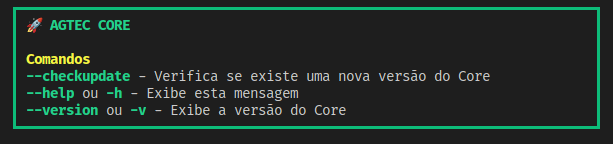
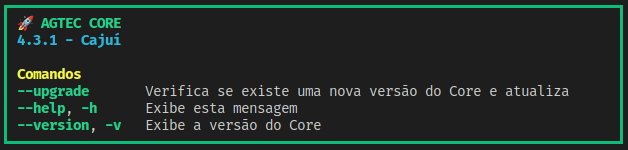
build: Atualiza a imagem com comandos/help e dependabot

Changed region(s): [[0.0, 0.0278, 0.9918, 0.9722]]

diff --git a/{{cookiecutter.project_slug}}/core/management/commands/core.py b/{{cookiecutter.project_slug}}/core/management/commands/core.py
@@ -25,11 +25,12 @@ MESSAGES = {
         "Algo está errado\nCore $version_core\nProjeto $version_project"
     ),
     "help": Template(
-        "[green b]AGTEC CORE[/] [cyan b]$version - $codename[/]\
+        "[green b]AGTEC CORE[/]\
+            \n[cyan b]$version - $codename[/]\
             \n\n[yellow b]Comandos[/]\
-            \n[green b]--checkupdate[/] - Verifica se existe uma nova versão do Core\
-            \n[green b]--help[/] ou [green b]-h[/] - Exibe esta mensagem\
-            \n[green b]--version[/] ou [green b]-v[/] - Exibe a versão do Core"
+            \n[green b]--upgrade[/]\tVerifica se existe uma nova versão do Core e atualiza\
+            \n[green b]--help[/], [green b]-h[/]\tExibe esta mensagem\
+            \n[green b]--version[/], [green b]-v[/]\tExibe a versão do Core"
     ),
     "new_core_version": Template(
         "Atualização $version disponível\nVersão $current_version está sendo usada\n\nBaixar atualização\n$download_url"
